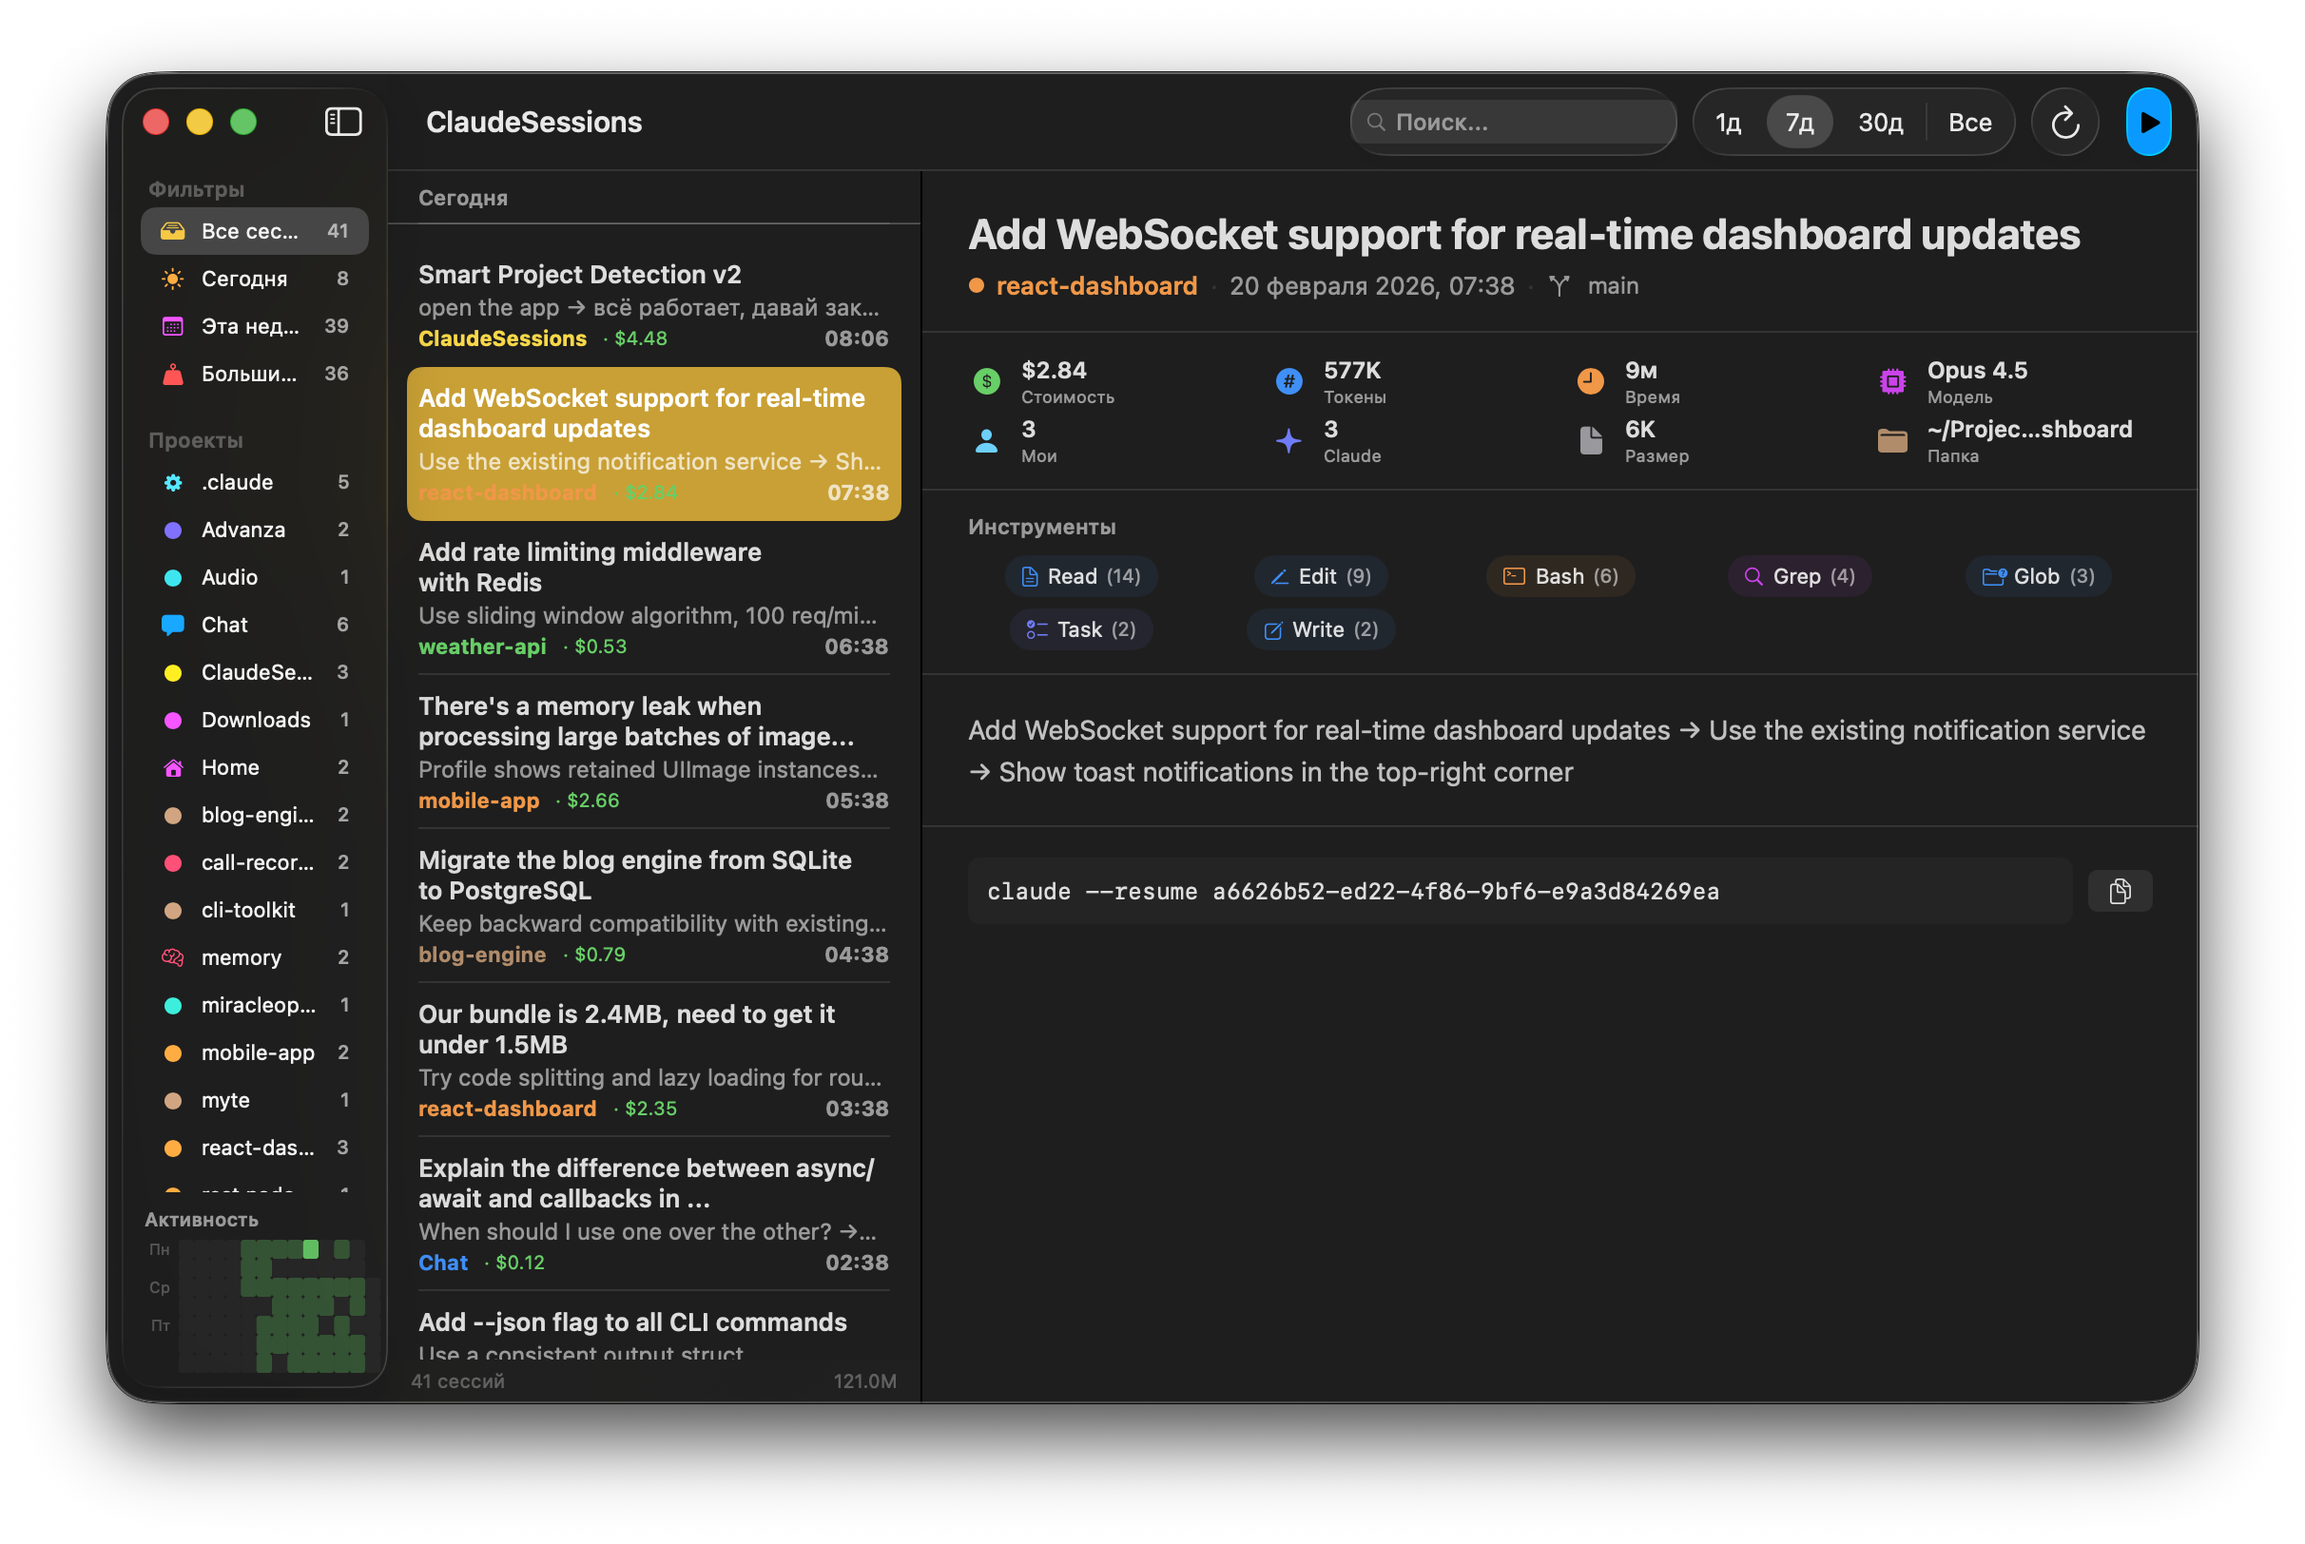
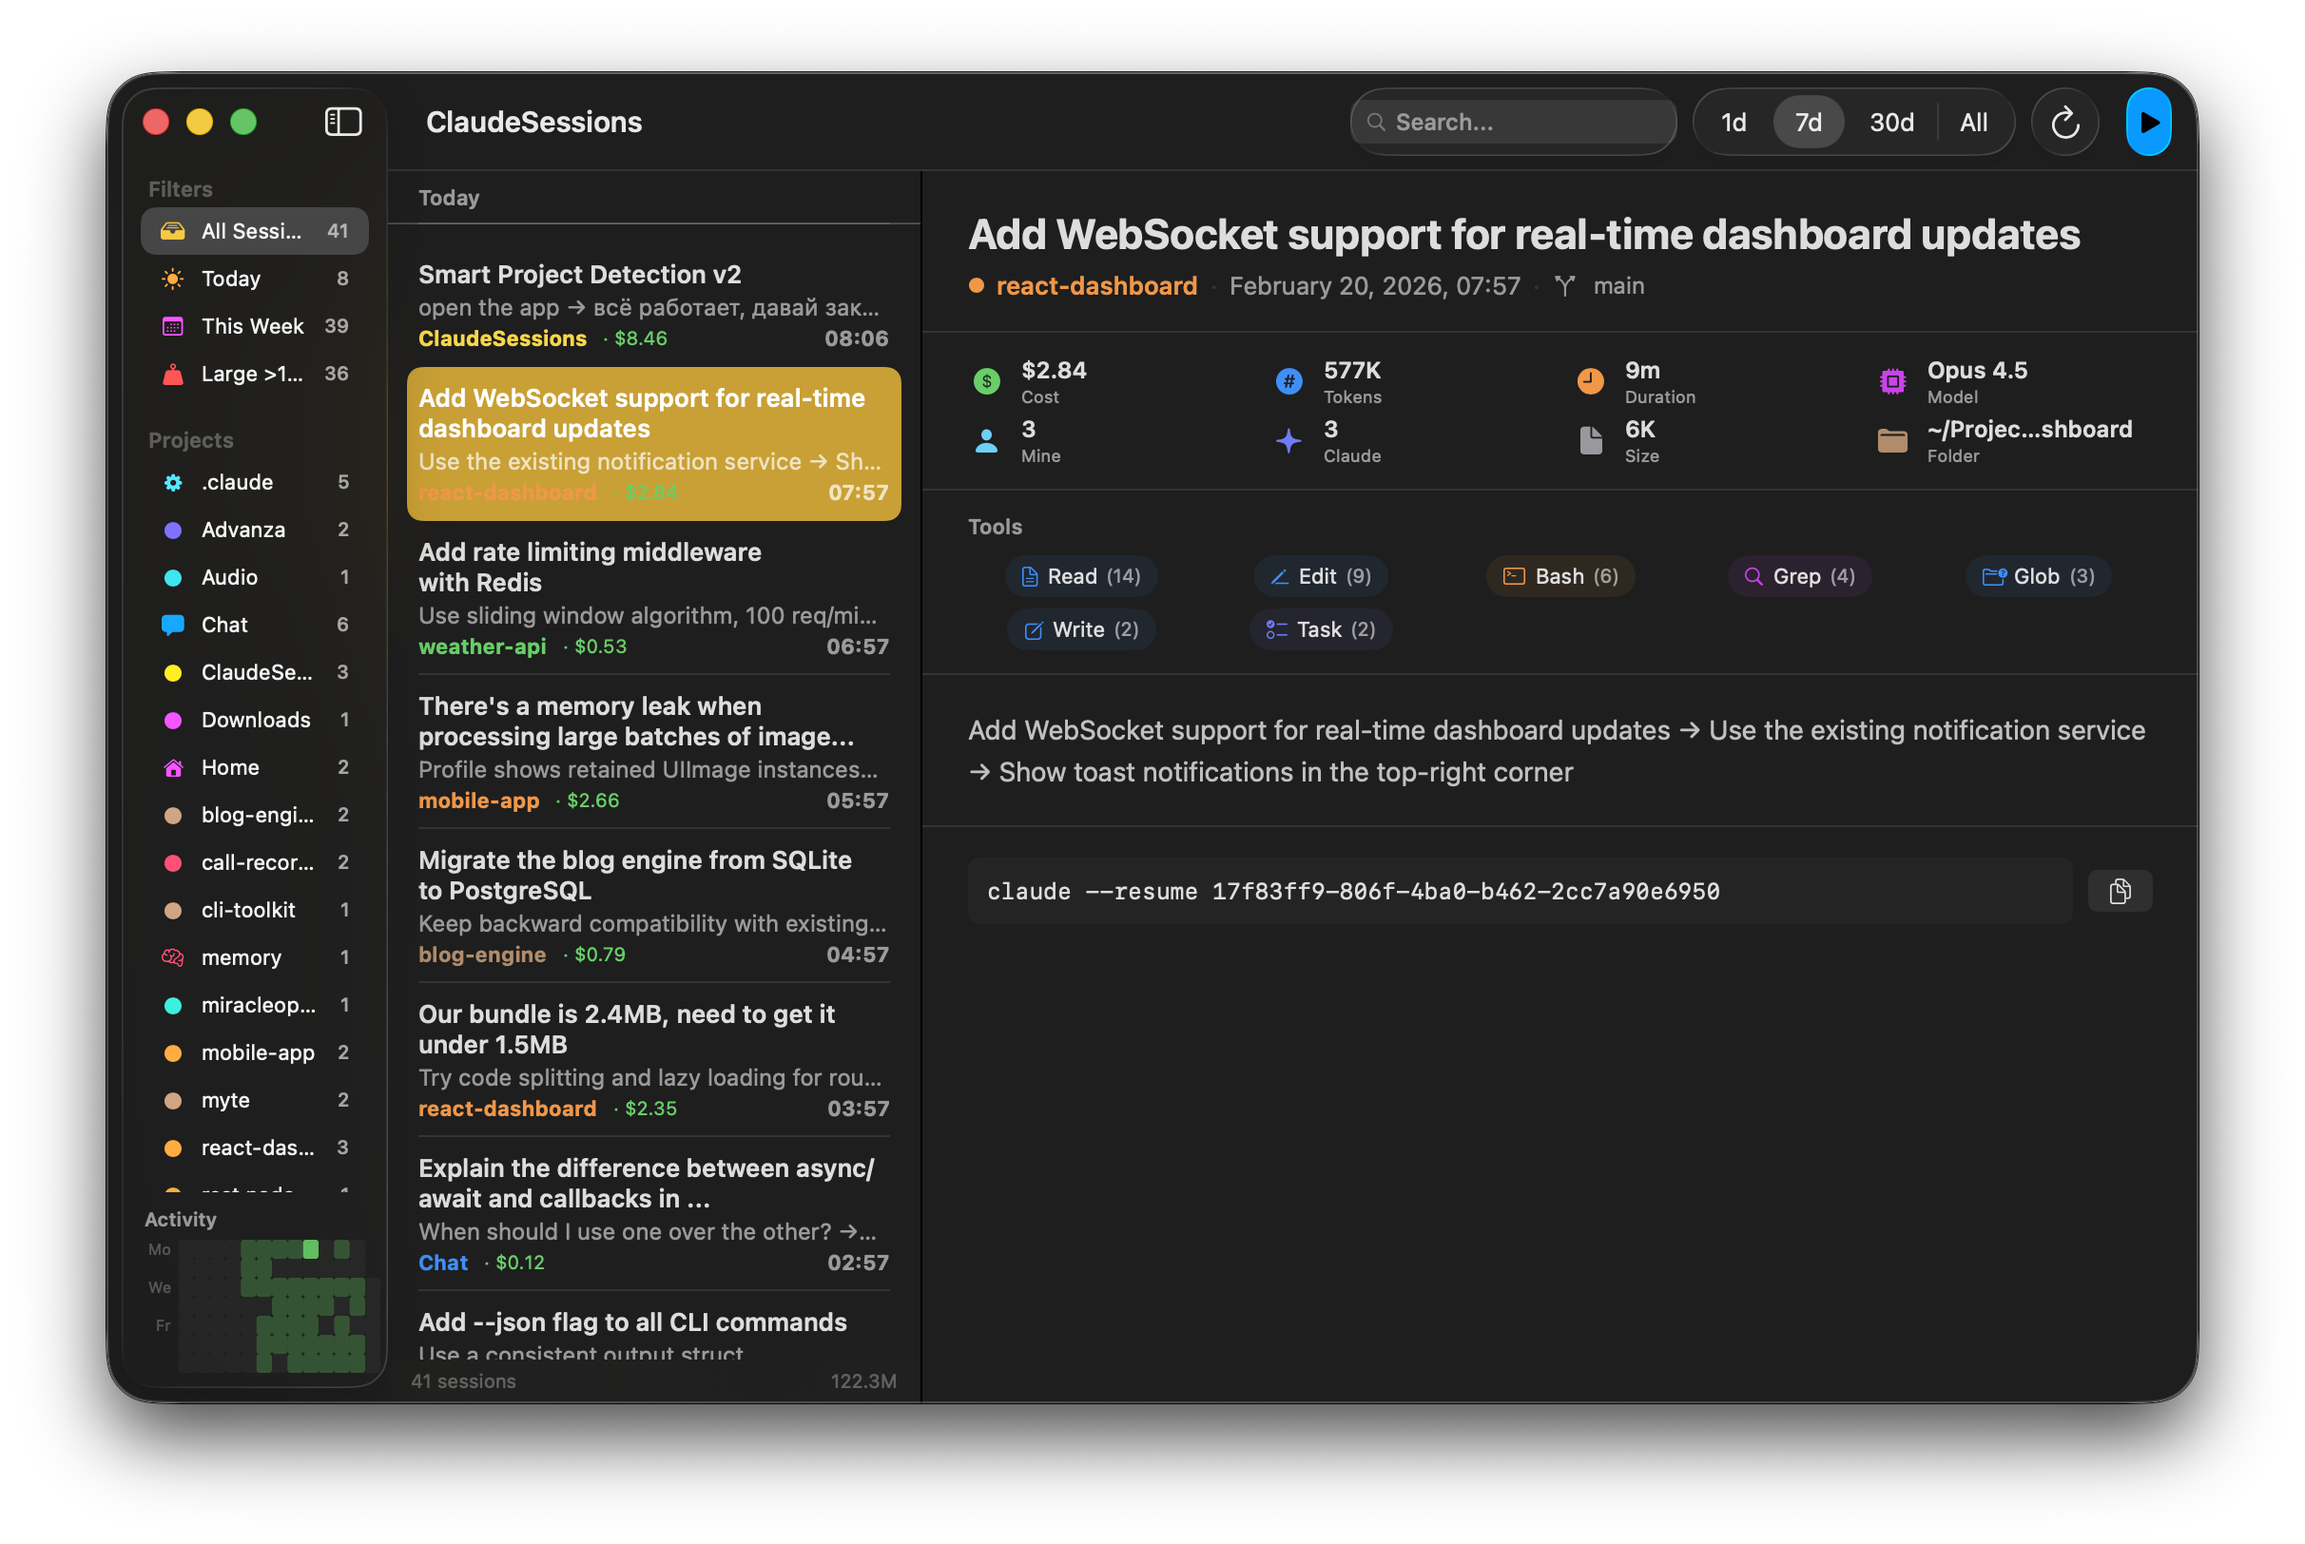
Translate UI to English, update screenshot
- All labels, placeholders, stat cards, date headers → English
- Duration units: с/м/ч → s/m/h
- Date format: "d MMMM" → "MMMM d" with en_US locale
- New screenshot with English UI and demo project data

diff --git a/Sources/ContentView.swift b/Sources/ContentView.swift
@@ -34,9 +34,9 @@ struct ContentView: View {
                 ArticleDetail(session: session)
             } else {
                 ContentUnavailableView {
-                    Label("Нет выбранной сессии", systemImage: "bubble.left.and.text.bubble.right")
+                    Label("No Session Selected", systemImage: "bubble.left.and.text.bubble.right")
                 } description: {
-                    Text("Выбери сессию из списка")
+                    Text("Select a session from the list")
                 }
             }
         }
@@ -58,7 +58,7 @@ struct ContentView: View {
                     Image(systemName: "magnifyingglass")
                         .foregroundStyle(.tertiary)
                         .font(.system(size: 10))
-                    TextField("Поиск...", text: $store.searchText)
+                    TextField("Search...", text: $store.searchText)
                         .textFieldStyle(.plain)
                         .font(.system(size: 12))
                         .frame(width: 140)
@@ -68,15 +68,15 @@ struct ContentView: View {
                 .background(.quaternary.opacity(0.5))
                 .clipShape(RoundedRectangle(cornerRadius: 6))
 
-                Picker("Период", selection: $store.selectedDays) {
-                    Text("1д").tag(1)
-                    Text("7д").tag(7)
-                    Text("30д").tag(30)
-                    Text("Все").tag(0)
+                Picker("Period", selection: $store.selectedDays) {
+                    Text("1d").tag(1)
+                    Text("7d").tag(7)
+                    Text("30d").tag(30)
+                    Text("All").tag(0)
                 }
                 .pickerStyle(.segmented)
                 .frame(width: 170)
-                .help("Период: 1 день, неделя, месяц или все")
+                .help("Period: 1 day, week, month, or all")
                 .onChange(of: store.selectedDays) { _, _ in
                     store.scan()
                 }
@@ -86,7 +86,7 @@ struct ContentView: View {
                 } label: {
                     Image(systemName: "arrow.clockwise")
                 }
-                .help("Обновить (⌘R)")
+                .help("Refresh (⌘R)")
             }
         }
     }
@@ -102,9 +102,9 @@ struct FeedSidebar: View {
         VStack(spacing: 0) {
             List(selection: $selection) {
                 // Smart collections
-                Section("Фильтры") {
+                Section("Filters") {
                     Label {
-                        Text("Все сессии")
+                        Text("All Sessions")
                     } icon: {
                         Image(systemName: "tray.full.fill")
                             .foregroundStyle(Color.accentColor)
@@ -113,7 +113,7 @@ struct FeedSidebar: View {
                     .tag(SidebarItem.all)
 
                     Label {
-                        Text("Сегодня")
+                        Text("Today")
                     } icon: {
                         Image(systemName: "sun.max.fill")
                             .foregroundStyle(.orange)
@@ -122,7 +122,7 @@ struct FeedSidebar: View {
                     .tag(SidebarItem.today)
 
                     Label {
-                        Text("Эта неделя")
+                        Text("This Week")
                     } icon: {
                         Image(systemName: "calendar")
                             .foregroundStyle(.purple)
@@ -131,7 +131,7 @@ struct FeedSidebar: View {
                     .tag(SidebarItem.thisWeek)
 
                     Label {
-                        Text("Большие >100K")
+                        Text("Large >100K")
                     } icon: {
                         Image(systemName: "scalemass.fill")
                             .foregroundStyle(.red)
@@ -141,7 +141,7 @@ struct FeedSidebar: View {
                 }
 
                 // Project feeds
-                Section("Проекты") {
+                Section("Projects") {
                     ForEach(store.projects, id: \.self) { project in
                         Label {
                             Text(project)
@@ -192,7 +192,7 @@ struct TimelineList: View {
         .frame(minWidth: 280, idealWidth: 340)
         .overlay(alignment: .bottom) {
             HStack {
-                Text("\(store.filteredSessions.count) сессий")
+                Text("\(store.filteredSessions.count) sessions")
                 Spacer()
                 Text(humanSize(store.totalSize))
             }
@@ -300,14 +300,14 @@ struct ArticleDetail: View {
                 // Stat Cards — Row 1: cost, tokens, duration, model
                 LazyVGrid(columns: Array(repeating: GridItem(.flexible(), spacing: 12), count: 4), spacing: 10) {
                     StatCard(icon: "dollarsign.circle.fill", color: .green,
-                             value: session.costString, label: "Стоимость")
+                             value: session.costString, label: "Cost")
                     StatCard(icon: "number.circle.fill", color: .blue,
-                             value: session.tokenString, label: "Токены",
+                             value: session.tokenString, label: "Tokens",
                              tooltip: "In: \(session.inputTokens), Out: \(session.outputTokens), Cache Read: \(session.cacheReadTokens), Cache Write: \(session.cacheCreationTokens)")
                     StatCard(icon: "clock.fill", color: .orange,
-                             value: session.durationString, label: "Время")
+                             value: session.durationString, label: "Duration")
                     StatCard(icon: "cpu.fill", color: .purple,
-                             value: session.shortModelName, label: "Модель")
+                             value: session.shortModelName, label: "Model")
                 }
                 .padding(.horizontal, 24)
                 .padding(.top, 12)
@@ -315,13 +315,13 @@ struct ArticleDetail: View {
                 // Stat Cards — Row 2: messages, size, folder
                 LazyVGrid(columns: Array(repeating: GridItem(.flexible(), spacing: 12), count: 4), spacing: 10) {
                     StatCard(icon: "person.fill", color: .cyan,
-                             value: "\(session.userMsgCount)", label: "Мои")
+                             value: "\(session.userMsgCount)", label: "Mine")
                     StatCard(icon: "sparkle", color: .indigo,
                              value: "\(session.assistantMsgCount)", label: "Claude")
                     StatCard(icon: "doc.fill", color: .gray,
-                             value: session.sizeString, label: "Размер")
+                             value: session.sizeString, label: "Size")
                     StatCard(icon: "folder.fill", color: .brown,
-                             value: shortPath(session.cwd), label: "Папка")
+                             value: shortPath(session.cwd), label: "Folder")
                 }
                 .padding(.horizontal, 24)
                 .padding(.top, 4)
@@ -372,7 +372,7 @@ struct ArticleDetail: View {
                     }
                     .buttonStyle(.bordered)
                     .controlSize(.small)
-                    .help("Скопировать команду")
+                    .help("Copy command")
                 }
                 .padding(.horizontal, 24)
                 .padding(.vertical, 16)
@@ -388,7 +388,7 @@ struct ArticleDetail: View {
                     copied = true
                     DispatchQueue.main.asyncAfter(deadline: .now() + 2) { copied = false }
                 } label: {
-                    Label(copied ? "Скопировано" : "Resume",
+                    Label(copied ? "Copied" : "Resume",
                           systemImage: copied ? "checkmark" : "play.fill")
                 }
                 .buttonStyle(.borderedProminent)
@@ -436,7 +436,7 @@ struct ToolGrid: View {
 
     var body: some View {
         VStack(alignment: .leading, spacing: 8) {
-            Text("Инструменты")
+            Text("Tools")
                 .font(.system(size: 11, weight: .semibold))
                 .foregroundStyle(.secondary)
 
@@ -540,7 +540,7 @@ struct QuickOpenSheet: View {
             HStack(spacing: 8) {
                 Image(systemName: "magnifyingglass")
                     .foregroundStyle(.secondary)
-                TextField("Поиск сессий...", text: $query)
+                TextField("Search sessions...", text: $query)
                     .textFieldStyle(.plain)
                     .font(.system(size: 16))
                     .onSubmit { selectCurrent() }
@@ -561,7 +561,7 @@ struct QuickOpenSheet: View {
 
             // Results list
             if results.isEmpty {
-                ContentUnavailableView("Ничего не найдено", systemImage: "magnifyingglass")
+                ContentUnavailableView("No Results", systemImage: "magnifyingglass")
                     .frame(maxHeight: .infinity)
             } else {
                 ScrollViewReader { proxy in
@@ -678,18 +678,18 @@ func formatDateHeader(_ dateStr: String) -> String {
     guard let date = df.date(from: dateStr) else { return dateStr }
 
     let cal = Calendar.current
-    if cal.isDateInToday(date) { return "Сегодня" }
-    if cal.isDateInYesterday(date) { return "Вчера" }
+    if cal.isDateInToday(date) { return "Today" }
+    if cal.isDateInYesterday(date) { return "Yesterday" }
 
-    df.dateFormat = "EEEE, d MMMM"
-    df.locale = Locale(identifier: "ru_RU")
+    df.dateFormat = "EEEE, MMMM d"
+    df.locale = Locale(identifier: "en_US")
     return df.string(from: date)
 }
 
 func formatDetailDate(_ date: Date) -> String {
     let df = DateFormatter()
-    df.dateFormat = "d MMMM yyyy"
-    df.locale = Locale(identifier: "ru_RU")
+    df.dateFormat = "MMMM d, yyyy"
+    df.locale = Locale(identifier: "en_US")
     return df.string(from: date)
 }
 

diff --git a/Sources/Session.swift b/Sources/Session.swift
@@ -64,13 +64,13 @@ struct Session: Identifiable, Hashable {
 
     var durationString: String {
         let totalSeconds = durationMs / 1000
-        if totalSeconds < 60 { return "\(totalSeconds)с" }
+        if totalSeconds < 60 { return "\(totalSeconds)s" }
         let minutes = totalSeconds / 60
-        if minutes < 60 { return "\(minutes)м" }
+        if minutes < 60 { return "\(minutes)m" }
         let hours = minutes / 60
         let remainMinutes = minutes % 60
-        if remainMinutes == 0 { return "\(hours)ч" }
-        return "\(hours)ч \(remainMinutes)м"
+        if remainMinutes == 0 { return "\(hours)h" }
+        return "\(hours)h \(remainMinutes)m"
     }
 
     var costString: String {
@@ -491,7 +491,7 @@ func parseSession(at path: String, sessionDir: String) -> Session? {
         timestamp: ts,
         project: detectedProject,
         cwd: cwd ?? "~",
-        title: firstMsg.isEmpty ? "Без названия" : firstMsg,
+        title: firstMsg.isEmpty ? "Untitled" : firstMsg,
         summary: summary.isEmpty ? "—" : summary,
         sizeBytes: fileSize,
         userMsgCount: userCount,

diff --git a/Sources/ActivityHeatmap.swift b/Sources/ActivityHeatmap.swift
@@ -37,12 +37,12 @@ struct ActivityHeatmap: View {
 
     var body: some View {
         VStack(alignment: .leading, spacing: 4) {
-            Text("Активность")
+            Text("Activity")
                 .font(.system(size: 10, weight: .semibold))
                 .foregroundStyle(.secondary)
 
             if cells.isEmpty {
-                Text("Нет данных")
+                Text("No data")
                     .font(.system(size: 9))
                     .foregroundStyle(.tertiary)
                     .frame(height: 70)
@@ -96,9 +96,9 @@ struct ActivityHeatmap: View {
 
     private func weekdayLabel(_ day: Int) -> String {
         switch day {
-        case 1: return "Пн"
-        case 3: return "Ср"
-        case 5: return "Пт"
+        case 1: return "Mo"
+        case 3: return "We"
+        case 5: return "Fr"
         default: return ""
         }
     }
